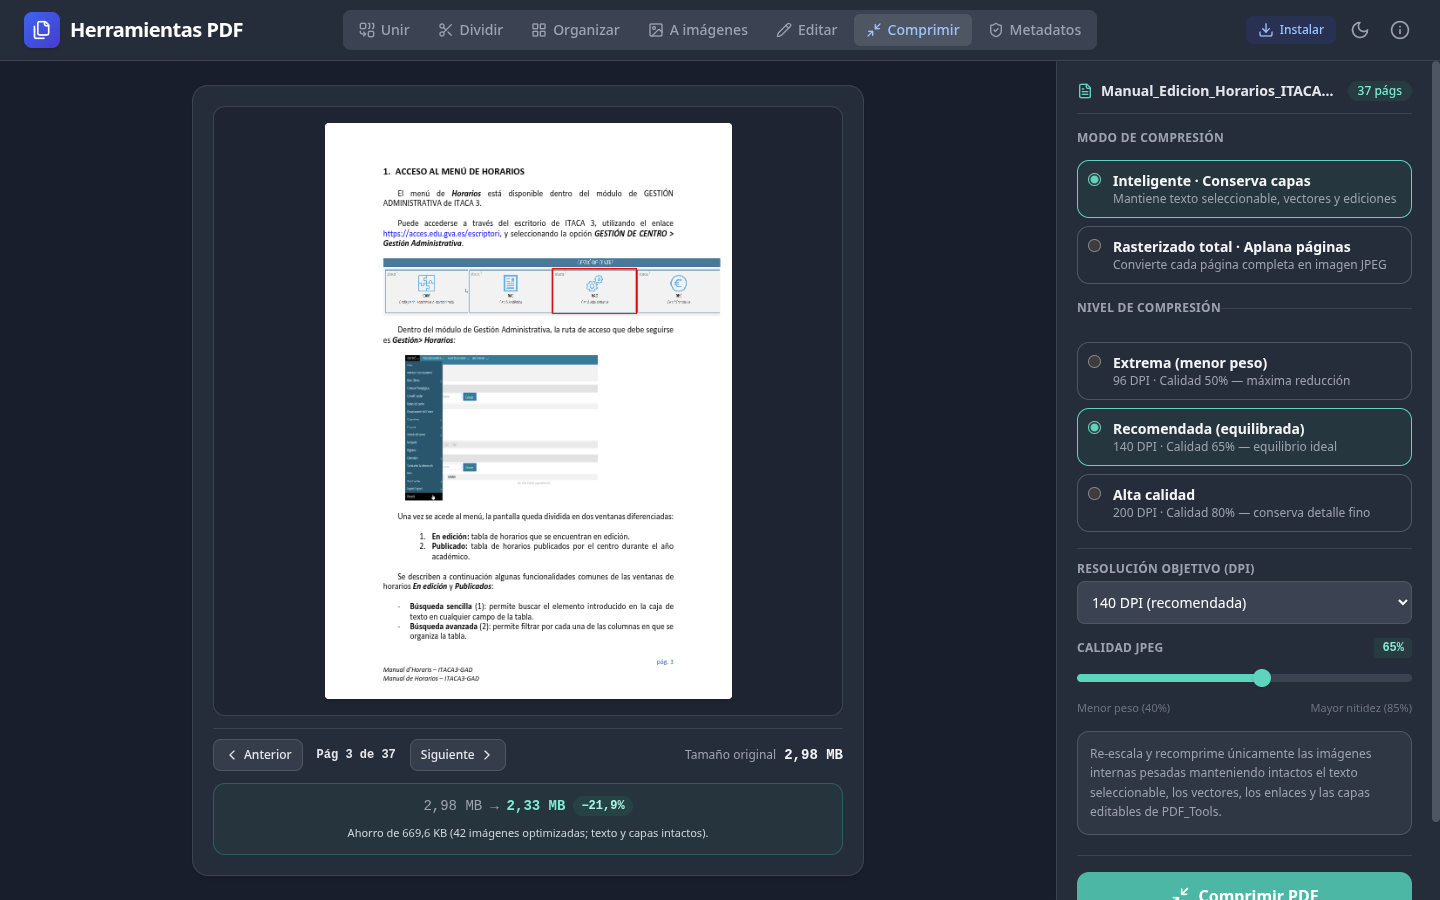
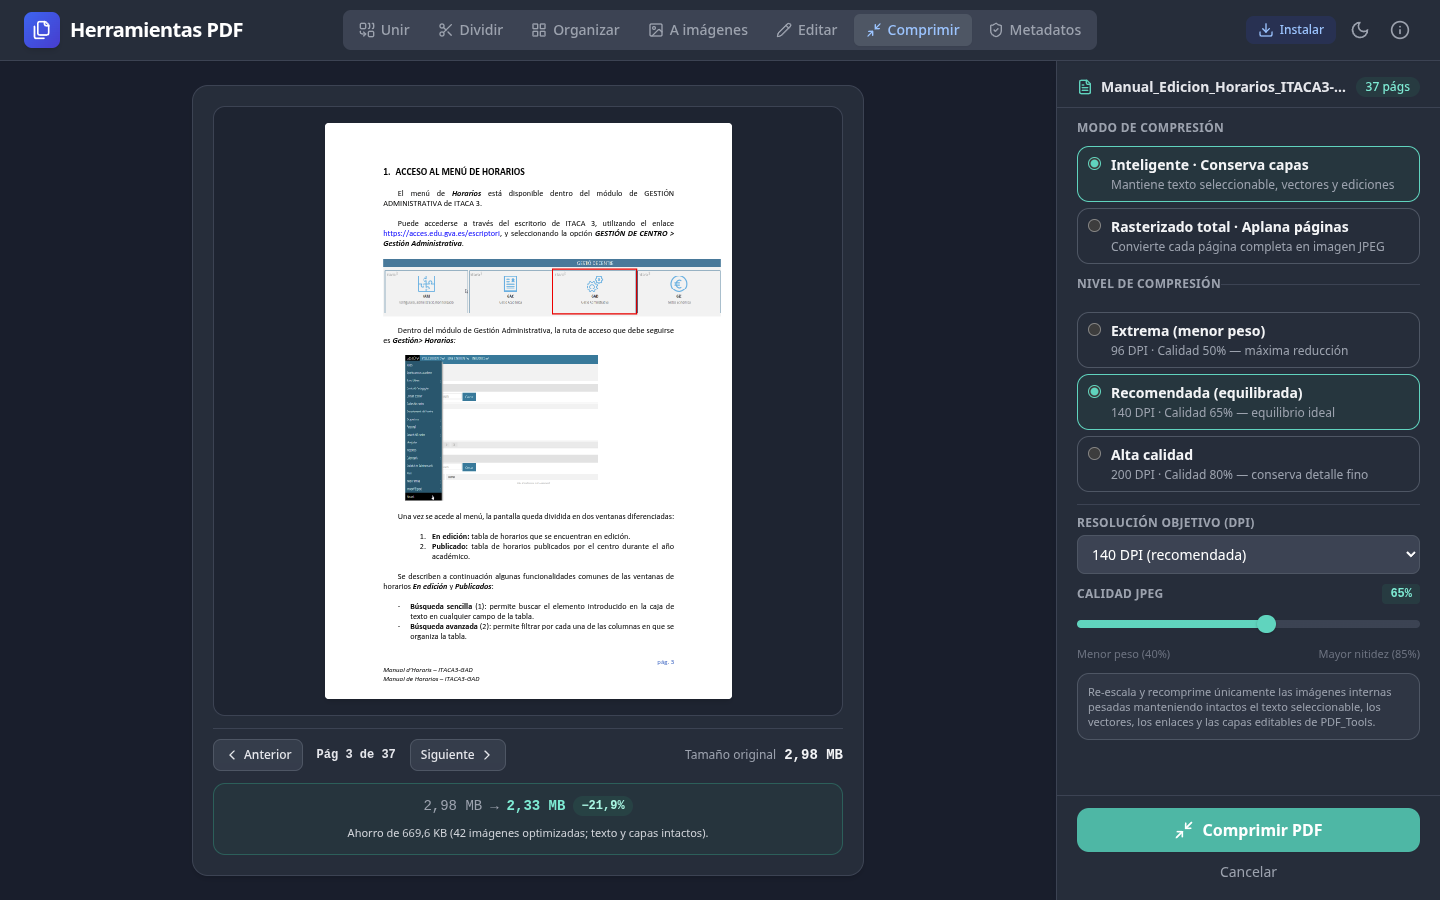
ui(compress): pin sidebar footer & update 07-comprimir.png + cursor demo.gif (v2.0.0-beta.19)

diff --git a/index.html b/index.html
@@ -432,7 +432,7 @@
                 content: "";
                 position: absolute;
                 inset-inline-start: 0.75rem;
-                inset-block-start: 0.9rem;
+                inset-block-start: 0.75rem;
                 width: 1rem;
                 height: 1rem;
                 border: 2px solid #9ca3af;
@@ -955,8 +955,8 @@
                 </div>
 
                 <!-- Controls Sidebar -->
-                <aside class="w-80 lg:w-96 bg-white border-l border-gray-200 p-5 flex flex-col shadow-lg z-10 overflow-y-auto custom-scroll dark:bg-gray-800 dark:border-gray-700">
-                    <div class="mb-4 pb-3 border-b border-gray-100 flex items-center justify-between gap-2 dark:border-gray-700">
+                <aside class="w-80 lg:w-96 bg-white border-l border-gray-200 flex flex-col min-h-0 overflow-clip shadow-lg z-10 dark:bg-gray-800 dark:border-gray-700">
+                    <div class="flex-none px-5 pt-4 pb-2.5 border-b border-gray-100 flex items-center justify-between gap-2 dark:border-gray-700">
                         <div class="flex items-center gap-2 min-w-0">
                             <i data-lucide="file-text" class="w-4 h-4 text-teal-600 flex-shrink-0 dark:text-teal-400"></i>
                             <span id="compress-filename-display" class="font-bold text-sm text-gray-700 truncate dark:text-gray-200" title="">documento.pdf</span>
@@ -964,55 +964,55 @@
                         <span id="compress-page-count" class="text-xs bg-teal-50 text-teal-700 px-2.5 py-0.5 rounded-full font-medium whitespace-nowrap flex-shrink-0 dark:bg-teal-900/40 dark:text-teal-300">0 págs</span>
                     </div>
 
-                    <form id="compress-form" action="#" method="post" novalidate class="flex-1 flex flex-col">
-                        <div class="space-y-4 flex-1">
-                            <fieldset class="space-y-2">
-                                <legend class="text-xs font-bold text-gray-500 uppercase tracking-wide mb-1.5 dark:text-gray-400">Modo de compresión</legend>
-                                <label for="compress-mode-smart" class="compress-radio-card flex items-start gap-3 p-2.5 rounded-xl border border-gray-200 cursor-pointer hover:bg-gray-50 has-[:checked]:border-teal-500 has-[:checked]:bg-teal-50/70 transition dark:border-gray-600 dark:hover:bg-gray-700/60 dark:has-[:checked]:border-teal-400 dark:has-[:checked]:bg-teal-900/25">
+                    <form id="compress-form" action="#" method="post" novalidate class="flex-1 min-h-0 flex flex-col">
+                        <div id="compress-options-scroll" class="flex-1 min-h-0 overflow-y-auto overscroll-contain custom-scroll px-5 py-3 space-y-3">
+                            <fieldset class="space-y-1.5">
+                                <legend class="text-xs font-bold text-gray-500 uppercase tracking-wide mb-1 dark:text-gray-400">Modo de compresión</legend>
+                                <label for="compress-mode-smart" class="compress-radio-card flex items-start gap-2.5 py-2 px-2.5 rounded-xl border border-gray-200 cursor-pointer hover:bg-gray-50 has-[:checked]:border-teal-500 has-[:checked]:bg-teal-50/70 transition dark:border-gray-600 dark:hover:bg-gray-700/60 dark:has-[:checked]:border-teal-400 dark:has-[:checked]:bg-teal-900/25">
                                     <input type="radio" id="compress-mode-smart" name="compress-mode" value="smart" checked aria-describedby="compress-mode-note" class="compress-radio mt-0.5">
-                                    <span class="block">
+                                    <span class="block leading-tight">
                                         <span class="block text-sm font-semibold text-gray-800 dark:text-gray-100">Inteligente · Conserva capas</span>
-                                        <span class="block text-xs text-gray-500 dark:text-gray-400">Mantiene texto seleccionable, vectores y ediciones</span>
+                                        <span class="block text-xs text-gray-500 mt-0.5 dark:text-gray-400">Mantiene texto seleccionable, vectores y ediciones</span>
                                     </span>
                                 </label>
-                                <label for="compress-mode-raster" class="compress-radio-card flex items-start gap-3 p-2.5 rounded-xl border border-gray-200 cursor-pointer hover:bg-gray-50 has-[:checked]:border-teal-500 has-[:checked]:bg-teal-50/70 transition dark:border-gray-600 dark:hover:bg-gray-700/60 dark:has-[:checked]:border-teal-400 dark:has-[:checked]:bg-teal-900/25">
+                                <label for="compress-mode-raster" class="compress-radio-card flex items-start gap-2.5 py-2 px-2.5 rounded-xl border border-gray-200 cursor-pointer hover:bg-gray-50 has-[:checked]:border-teal-500 has-[:checked]:bg-teal-50/70 transition dark:border-gray-600 dark:hover:bg-gray-700/60 dark:has-[:checked]:border-teal-400 dark:has-[:checked]:bg-teal-900/25">
                                     <input type="radio" id="compress-mode-raster" name="compress-mode" value="raster" aria-describedby="compress-mode-note" class="compress-radio mt-0.5">
-                                    <span class="block">
+                                    <span class="block leading-tight">
                                         <span class="block text-sm font-semibold text-gray-800 dark:text-gray-100">Rasterizado total · Aplana páginas</span>
-                                        <span class="block text-xs text-gray-500 dark:text-gray-400">Convierte cada página completa en imagen JPEG</span>
+                                        <span class="block text-xs text-gray-500 mt-0.5 dark:text-gray-400">Convierte cada página completa en imagen JPEG</span>
                                     </span>
                                 </label>
                             </fieldset>
 
-                            <fieldset class="pt-3 border-t border-gray-100 space-y-2 dark:border-gray-700">
-                                <legend class="text-xs font-bold text-gray-500 uppercase tracking-wide mb-1.5 dark:text-gray-400">Nivel de compresión</legend>
-                                <label for="compress-preset-extreme" class="compress-radio-card flex items-start gap-3 p-2.5 rounded-xl border border-gray-200 cursor-pointer hover:bg-gray-50 has-[:checked]:border-teal-500 has-[:checked]:bg-teal-50/70 transition dark:border-gray-600 dark:hover:bg-gray-700/60 dark:has-[:checked]:border-teal-400 dark:has-[:checked]:bg-teal-900/25">
+                            <fieldset class="pt-2.5 border-t border-gray-100 space-y-1.5 dark:border-gray-700">
+                                <legend class="text-xs font-bold text-gray-500 uppercase tracking-wide mb-1 dark:text-gray-400">Nivel de compresión</legend>
+                                <label for="compress-preset-extreme" class="compress-radio-card flex items-start gap-2.5 py-2 px-2.5 rounded-xl border border-gray-200 cursor-pointer hover:bg-gray-50 has-[:checked]:border-teal-500 has-[:checked]:bg-teal-50/70 transition dark:border-gray-600 dark:hover:bg-gray-700/60 dark:has-[:checked]:border-teal-400 dark:has-[:checked]:bg-teal-900/25">
                                     <input type="radio" id="compress-preset-extreme" name="compress-preset" value="extreme" class="compress-radio mt-0.5">
-                                    <span class="block">
+                                    <span class="block leading-tight">
                                         <span class="block text-sm font-semibold text-gray-800 dark:text-gray-100">Extrema (menor peso)</span>
-                                        <span class="block text-xs text-gray-500 dark:text-gray-400">96 DPI · Calidad 50% — máxima reducción</span>
+                                        <span class="block text-xs text-gray-500 mt-0.5 dark:text-gray-400">96 DPI · Calidad 50% — máxima reducción</span>
                                     </span>
                                 </label>
-                                <label for="compress-preset-balanced" class="compress-radio-card flex items-start gap-3 p-2.5 rounded-xl border border-gray-200 cursor-pointer hover:bg-gray-50 has-[:checked]:border-teal-500 has-[:checked]:bg-teal-50/70 transition dark:border-gray-600 dark:hover:bg-gray-700/60 dark:has-[:checked]:border-teal-400 dark:has-[:checked]:bg-teal-900/25">
+                                <label for="compress-preset-balanced" class="compress-radio-card flex items-start gap-2.5 py-2 px-2.5 rounded-xl border border-gray-200 cursor-pointer hover:bg-gray-50 has-[:checked]:border-teal-500 has-[:checked]:bg-teal-50/70 transition dark:border-gray-600 dark:hover:bg-gray-700/60 dark:has-[:checked]:border-teal-400 dark:has-[:checked]:bg-teal-900/25">
                                     <input type="radio" id="compress-preset-balanced" name="compress-preset" value="balanced" checked class="compress-radio mt-0.5">
-                                    <span class="block">
+                                    <span class="block leading-tight">
                                         <span class="block text-sm font-semibold text-gray-800 dark:text-gray-100">Recomendada (equilibrada)</span>
-                                        <span class="block text-xs text-gray-500 dark:text-gray-400">140 DPI · Calidad 65% — equilibrio ideal</span>
+                                        <span class="block text-xs text-gray-500 mt-0.5 dark:text-gray-400">140 DPI · Calidad 65% — equilibrio ideal</span>
                                     </span>
                                 </label>
-                                <label for="compress-preset-high" class="compress-radio-card flex items-start gap-3 p-2.5 rounded-xl border border-gray-200 cursor-pointer hover:bg-gray-50 has-[:checked]:border-teal-500 has-[:checked]:bg-teal-50/70 transition dark:border-gray-600 dark:hover:bg-gray-700/60 dark:has-[:checked]:border-teal-400 dark:has-[:checked]:bg-teal-900/25">
+                                <label for="compress-preset-high" class="compress-radio-card flex items-start gap-2.5 py-2 px-2.5 rounded-xl border border-gray-200 cursor-pointer hover:bg-gray-50 has-[:checked]:border-teal-500 has-[:checked]:bg-teal-50/70 transition dark:border-gray-600 dark:hover:bg-gray-700/60 dark:has-[:checked]:border-teal-400 dark:has-[:checked]:bg-teal-900/25">
                                     <input type="radio" id="compress-preset-high" name="compress-preset" value="high" class="compress-radio mt-0.5">
-                                    <span class="block">
+                                    <span class="block leading-tight">
                                         <span class="block text-sm font-semibold text-gray-800 dark:text-gray-100">Alta calidad</span>
-                                        <span class="block text-xs text-gray-500 dark:text-gray-400">200 DPI · Calidad 80% — conserva detalle fino</span>
+                                        <span class="block text-xs text-gray-500 mt-0.5 dark:text-gray-400">200 DPI · Calidad 80% — conserva detalle fino</span>
                                     </span>
                                 </label>
                             </fieldset>
 
-                            <div class="pt-3 border-t border-gray-100 space-y-3.5 dark:border-gray-700">
+                            <div class="pt-2.5 border-t border-gray-100 space-y-2.5 dark:border-gray-700">
                                 <div>
                                     <label for="compress-dpi" class="block text-xs font-bold text-gray-500 uppercase tracking-wide mb-1 dark:text-gray-400">Resolución objetivo (DPI)</label>
-                                    <select id="compress-dpi" name="compress-dpi" class="w-full border border-gray-300 rounded-lg p-2.5 text-sm outline-none focus:border-teal-500 bg-white dark:bg-gray-700 dark:border-gray-600 dark:text-white">
+                                    <select id="compress-dpi" name="compress-dpi" class="w-full border border-gray-300 rounded-lg py-2 px-2.5 text-sm outline-none focus:border-teal-500 bg-white dark:bg-gray-700 dark:border-gray-600 dark:text-white">
                                         <option value="72">72 DPI (mínima / vista pantalla)</option>
                                         <option value="96">96 DPI (compacta / correo y web)</option>
                                         <option value="120">120 DPI (media-baja)</option>
@@ -1034,17 +1034,17 @@
                                     </div>
                                 </div>
 
-                                <p id="compress-mode-note" class="text-xs text-gray-500 bg-gray-50 border border-gray-200/80 rounded-xl p-3 leading-relaxed dark:bg-gray-700/40 dark:border-gray-600 dark:text-gray-400">
+                                <p id="compress-mode-note" class="text-[11px] text-gray-500 bg-gray-50 border border-gray-200/80 rounded-xl p-2.5 leading-snug dark:bg-gray-700/40 dark:border-gray-600 dark:text-gray-400">
                                     Re-escala y recomprime únicamente las imágenes internas pesadas manteniendo intactos el texto seleccionable, los vectores, los enlaces y las capas editables de PDF_Tools.
                                 </p>
                             </div>
                         </div>
 
-                        <div class="mt-5 pt-4 border-t border-gray-200 space-y-2.5 dark:border-gray-700">
-                            <button type="submit" id="compress-run-btn" class="w-full bg-teal-600 text-white font-bold py-3 px-4 rounded-xl hover:bg-teal-700 disabled:opacity-50 transition shadow-sm flex items-center justify-center gap-2 dark:bg-teal-500 dark:hover:bg-teal-600">
+                        <div class="flex-none px-5 pt-3 pb-3.5 border-t border-gray-200 bg-white space-y-1.5 dark:bg-gray-800 dark:border-gray-700">
+                            <button type="submit" id="compress-run-btn" class="w-full bg-teal-600 text-white font-bold py-2.5 px-4 rounded-xl hover:bg-teal-700 disabled:opacity-50 transition shadow-sm flex items-center justify-center gap-2 dark:bg-teal-500 dark:hover:bg-teal-600">
                                 <i data-lucide="minimize-2" class="w-5 h-5"></i> Comprimir PDF
                             </button>
-                            <button type="button" id="compress-cancel-btn" class="w-full text-gray-500 py-2 text-sm hover:text-red-600 dark:text-gray-400 dark:hover:text-red-400">Cancelar</button>
+                            <button type="button" id="compress-cancel-btn" class="w-full text-gray-500 py-1 text-sm hover:text-red-600 dark:text-gray-400 dark:hover:text-red-400">Cancelar</button>
                         </div>
                     </form>
                 </aside>
@@ -7312,7 +7312,7 @@
         // ==========================================
         // VERSIÓN Y MÓDULO PWA (OFFLINE + ACTUALIZACIÓN)
         // ==========================================
-        const APP_VERSION = 'v2.0.0-beta.18';
+        const APP_VERSION = 'v2.0.0-beta.19';
         const APP_BUILD_DATE = '11/11/2026';
 
         const versionBadge = document.getElementById('app-version-badge');

diff --git a/sw.js b/sw.js
@@ -1,4 +1,4 @@
-const CACHE_VERSION = 'pdftools-v2.0.0-beta.18';
+const CACHE_VERSION = 'pdftools-v2.0.0-beta.19';
 
 const APP_SHELL = [
     './',
